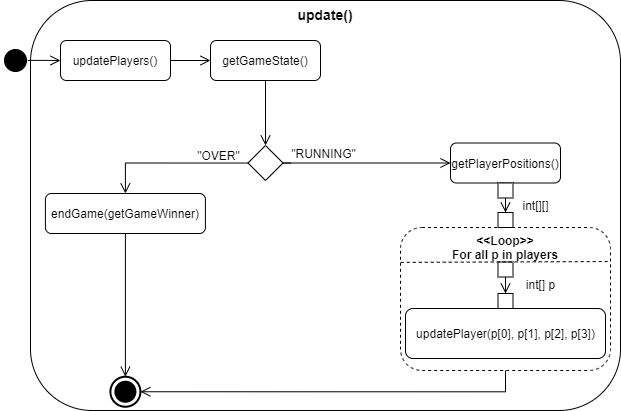
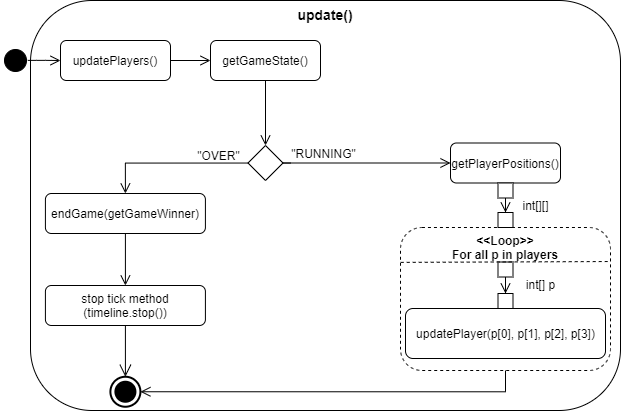
109 gamespeed als tickrate (#110)
* added gameSpeed and timeline in code, diagrams, doc

* actual doc changes

* small correction AD_init

Changed region(s): [[0.1224, 0.6715, 0.2754, 0.7883]]

diff --git a/src/test/java/de/hawh/beta3/application/game/model/gamelogic/GameLogicTest.java b/src/test/java/de/hawh/beta3/application/game/model/gamelogic/GameLogicTest.java
@@ -16,7 +16,7 @@ class GameLogicTest {
     @BeforeEach
     void setUp() {
         gameLogic = new GameLogic();
-        gameLogic.init(4, 40, 3);
+        gameLogic.init(4, 40);
         players = gameLogic.getPlayerPositions();
     }
 
@@ -30,7 +30,7 @@ class GameLogicTest {
         assertEquals(startingPos.stream().distinct().count(), startingPos.size());
 
         //6 players
-        gameLogic.init(6, 40, 3);
+        gameLogic.init(6, 40);
         players = gameLogic.getPlayerPositions();
 
         startingPos = new ArrayList<>();
@@ -49,7 +49,7 @@ class GameLogicTest {
         assertEquals(startingPos.get(3), new Position(19, 39));
 
         //3 players size 53
-        gameLogic.init(4, 53, 3);
+        gameLogic.init(4, 53);
         players = gameLogic.getPlayerPositions();
         startingPos = new ArrayList<>();
         for (int[] p : players) startingPos.add(new Position(p[1], p[2]));
@@ -58,7 +58,7 @@ class GameLogicTest {
         assertEquals(startingPos.get(2), new Position(26, 0));
 
         //6 players size 40
-        gameLogic.init(6, 40, 3);
+        gameLogic.init(6, 40);
         players = gameLogic.getPlayerPositions();
         startingPos = new ArrayList<>();
         for (int[] p : players) startingPos.add(new Position(p[1], p[2]));
@@ -154,7 +154,7 @@ class GameLogicTest {
          * x x 2 x 1
          * x x x 1 1
          */
-        gameLogic.init(3, 5, 3);
+        gameLogic.init(3, 5);
         players = gameLogic.getPlayerPositions();
         gameLogic.changePlayerDirection(0, "left");
         gameLogic.changePlayerDirection(1, "left");
@@ -178,7 +178,7 @@ class GameLogicTest {
          * x x 3 3 x
          * x x 3 x x
          */
-        gameLogic.init(4, 5, 3);
+        gameLogic.init(4, 5);
         players = gameLogic.getPlayerPositions();
         gameLogic.updatePlayers();  //tick 1
         gameLogic.changePlayerDirection(2, "right");
@@ -196,7 +196,7 @@ class GameLogicTest {
     @Test
     void updatePlayersPlayerWinCollision() {
         //one player steers right twice and drives into wall --> other player wins
-        gameLogic.init(2, 40, 3);
+        gameLogic.init(2, 40);
         players = gameLogic.getPlayerPositions();
         gameLogic.changePlayerDirection(0, "right");
         gameLogic.updatePlayers();
@@ -211,7 +211,7 @@ class GameLogicTest {
     @Test
     void updatePlayersPlayerWinTwoCollisions() {
         //players 0 and 1 drive into one another --> player 2 wins
-        gameLogic.init(3, 5, 3);
+        gameLogic.init(3, 5);
         players = gameLogic.getPlayerPositions();
         gameLogic.updatePlayers();  //tick 1
         gameLogic.changePlayerDirection(2, "left"); //player 2 is clever
@@ -227,7 +227,7 @@ class GameLogicTest {
     @Test
     void updatePlayersTie() {
         //every player drives into one another
-        gameLogic.init(4, 5, 3);
+        gameLogic.init(4, 5);
         gameLogic.updatePlayers();  //tick 1
         gameLogic.updatePlayers();  //tick 2 --> collision in the middle so big its a Karambolage
         assertSame(gameLogic.getGameState(), "OVER");
@@ -243,7 +243,7 @@ class GameLogicTest {
          * x x x 3 3 x x
          * x x x 3 3 x x
          */
-        gameLogic.init(5, 7, 3);
+        gameLogic.init(5, 7);
         gameLogic.changePlayerDirection(0, "left");
         gameLogic.changePlayerDirection(4, "left");
         gameLogic.updatePlayers();  //tick 1

diff --git a/src/main/java/de/hawh/beta3/application/game/model/gamemanager/GameManager.java b/src/main/java/de/hawh/beta3/application/game/model/gamemanager/GameManager.java
@@ -8,9 +8,10 @@ import de.hawh.beta3.application.game.view.IModelView;
 import java.util.Timer;
 import java.util.TimerTask;
 
-//import javafx.animation.Animation;
-//import javafx.animation.KeyFrame;
-//import javafx.animation.Timeline;
+import javafx.animation.Animation;
+import javafx.animation.KeyFrame;
+import javafx.animation.Timeline;
+import javafx.util.Duration;
 
 public class GameManager implements IModel {
     private static GameManager gameInstance = new GameManager();
@@ -20,7 +21,7 @@ public class GameManager implements IModel {
     private int fullPlayerCount;
     private int numPlayers;
     private Timer timer = new Timer();
-    //private Timeline timeline
+    private Timeline timeline;
 
     private GameManager() {
         gameLogic = new GameLogic();
@@ -83,9 +84,12 @@ public class GameManager implements IModel {
      */
     @Override
     public void startGame(int size, int gameSpeed) {
-        gameLogic.init(numPlayers, size, gameSpeed);
-        //timeline = new Timeline(new KeyFrame(Duration.millis(200), e -> update()));
-        //timeline.setCycleCount(Animation.INDEFINITE);
+        gameLogic.init(numPlayers, size);
+        for (int[] p : gameLogic.getPlayerPositions()) {    //send starting positions to view
+            //modelView.updatePlayer(p[0], p[1], p[2], p[3]);
+        }
+        timeline = new Timeline(new KeyFrame(Duration.millis(gameSpeed), e -> update()));
+        timeline.setCycleCount(Animation.INDEFINITE);
     }
 
     /**
@@ -111,6 +115,7 @@ public class GameManager implements IModel {
             }
         } else if (gameLogic.getGameState().equals("OVER")) {
             //modelController.endGame(gameLogic.getGameWinner());
+            timeline.stop();
         }
     }
 }

diff --git a/src/main/java/de/hawh/beta3/application/game/model/gamelogic/GameLogic.java b/src/main/java/de/hawh/beta3/application/game/model/gamelogic/GameLogic.java
@@ -16,13 +16,11 @@ public class GameLogic implements IGameLogic {
      *
      * @param numPlayers number of Players (2-6)
      * @param size       size of game field
-     * @param gameSpeed  speed of game
      */
     @Override
-    public void init(int numPlayers, int size, int gameSpeed) {
+    public void init(int numPlayers, int size) {
         this.size = size;
         players = new ArrayList<>();
-        //this.gameSpeed = gameSpeed;
         Position[] startingPos = getStartingPositions(numPlayers);
         Direction[] startingDir = getStartingDirections(numPlayers);
 
@@ -30,7 +28,6 @@ public class GameLogic implements IGameLogic {
             Player p = new Player(i, startingPos[i], startingDir[i]);
             p.addFrontToTrail();
             players.add(p);
-            //IModelView.updatePlayer(i, p.getFront().getX(), p.getFront().getY());
         }
 
         gameState = GameState.RUNNING;

diff --git a/src/main/java/de/hawh/beta3/application/game/model/gamelogic/IGameLogic.java b/src/main/java/de/hawh/beta3/application/game/model/gamelogic/IGameLogic.java
@@ -9,9 +9,8 @@ public interface IGameLogic {
      *
      * @param numPlayers number of Players (2-6)
      * @param size       size of game field
-     * @param gameSpeed  speed of game
      */
-    void init(int numPlayers, int size, int gameSpeed);
+    void init(int numPlayers, int size);
 
     /**
      * Method for changing direction of a player with <code>id</code>

diff --git a/Doku/Dokumentation_Tronspiel.md b/Doku/Dokumentation_Tronspiel.md
@@ -154,7 +154,7 @@ Die Anforderungen wurden mit Hilfe der Storyboard-Methode aufgenommen. Dafür wu
 |UC1 | Controller |int[] loadConfigParams() | Eine gültige Spieleranzahl wurd im Model gespeichert.  | Es wurde eine Liste mit Spielparametern erzeugt. |Die Methode liefert die Parameter aus der Config-Datei in einem int-Array der Länge 4. <br> **Index 0:** Die maximale Wartezeit <br> **Index 1:** Die Tastenbelegung (0: Steuerung über die Pfeiltasten rechts/links; 1: Steuerung über die Tasten 'A'/'D') <br> **Index 2:** Die Geschwindigkeit<br> **Index 3:** Die Spielfeldgröße | Wenn ein Parameter nicht im gültigen Wertebereich liegt oder nicht geladen werden konnte, wird der entsprechende Default-Wert gesetzt: <br> **Default maximale Wartezeit:** 120 Sekunden<br> **Default Geschwindkeit:** 100 (Einheit: Bewegungen/Sekunde) <br> **Default Spielfeldgröße:** Geschwindigkeit * 5 <br><br> Anschließend wird die Methode informUser("Ein oder mehr Parameter aus der Konfigurationsdatei waren ungültig oder konnten nicht geladen werden. Die betroffenen Parameter wurde auf Default-Werte gesetzt.") aufgerufen |
 |UC1| Model | ``void join(int)`` | Ein Spieler möchte dem Spiel durch Drücken auf Start beitreten oder ist der erste und erstellt damit ein Spiel | Der Spieler wurde im Spiel registriert. Wenn das Spiel voll ist, wird es gestartet | Nach Klick auf Start wird diese Methode mit der Anzahl der Spieler aus dem Feld des Startbildschirms aufgerufen. Ist noch kein `fullPlayerCount` gesetzt, ist die übergebene Anzahl die Lobbygröße. Die Anzahl der Spieler in der Lobby werden hochgezählt. Dann wird geschaut, ob die Lobby voll ist und dann entweder das Spiel gestartet oder die Anzahl der wartenden Spieler in der View aktualisiert und der Warte-Timer zurückgesetzt | 1. Ein Spieler tritt mit seiner eingetragenen Anzahl an Spielern bei, die Lobby hat aber schon eine gesetzte Größe. Dann wird der Spieler darüber informiert (`informUser()`) |
 |UC2a+b | Model | ``void cancelWait()`` | Der Cancel-Button wurde gedrückt oder die maximale Wartezeit ist abgelaufen | Das Spiel wurde abgebrochen und alles zurückgesetzt | fullPlayerCount und numPlayers werden auf 0 gesetzt, der Timer abgebrochen, der User informiert und die Spielinstanz im Controller gelöscht | |
-|UC3| Model |``void startGame(int, int)``| Es sind genug Spieler beigetreten|Das Spiel wurde initialisiert und alle Spieler befinden sich auf ihrer Startposition und sehen den Spielbildschirm | startGame() wird mit Anzahl Reihen (Spalten entfallen, da das Spielfeld quadratisch ist) und Geschwindigkeit aufgerufen. Das Spielfeld und die Spieler werden initialisert und die Spieler auf ihre Startpositionen gesetzt. Die Informationen über die Positionen werden an die View zur Darstellung geschickt||
+|UC3| Model |``void startGame(int, int)``| Es sind genug Spieler beigetreten|Das Spiel wurde initialisiert und alle Spieler befinden sich auf ihrer Startposition und sehen den Spielbildschirm | startGame() wird mit Anzahl Reihen (Spalten entfallen, da das Spielfeld quadratisch ist) und Spielgeschwindigkeit aufgerufen. Das Spielfeld und die Spieler werden initialisiert und die Spieler auf ihre Startpositionen gesetzt. Die Informationen über die Positionen werden an die View zur Darstellung geschickt||
 |UC1, UC2, UC5 | View | void informUser(String) | Ein Fehler ist aufgetreten | Dem Nutzer wird ein Text mit der entsprechenden Fehlerbeschreibung angezeigt. |Zeigt die übergebene Fehlerbeschreibung dem Nutzer an | |
 |UC1, UC2, UC6, UC8 | View |void showScreen(String) | Der Spielzustand wurde im Controller gewechselt. | Dem Nutzer wird einen anderen Bildschirm angezeigt. |Die Methode zeigt den Bildschirm an, der zum übergebenen Bildschirmzustand passt.  | Wenn zum übergebenen Zustandsparameter kein anzuzeigenden Bildschirm gehört, wird eine Exception mit einer Fehlerbeschreibung geworfen. |
 |UC2 | Controller | void handleWaitingButtonClick() | Der Nutzer befindet sich alleine in der Lobby und hat auf den Button "Cancel" geklickt.| Der Spieler wird  zum Startbildschirm zurückgeleitet. |Die Methode bricht den Wartevorgang ab. | |
@@ -342,7 +342,7 @@ Die Schnittstelle **IRemoteObject** bietet die Funktionalität zum Empfangen von
 | ``cancelWait()`` | Zum Abbrechen der Lobby durch Ablaufen der Wartezeit oder Drücken auf 'Cancel' |
 | ``startGame(int,int)`` | Lässt das Spiel mit den übergebenen Einstellungen (Spielfeldgröße und Spielgeschwindigkeit) starten|
 | ``changePlayerDirection(int,String)`` | Für Verarbeitung der Tasteneingaben für einen Spieler|
-| ``init(int,int,int)`` | Wird in `startGame()` aufgerufen und initialisert das Spiel |
+| ``init(int,int)`` | Wird in `startGame()` aufgerufen und initialisert das Spiel |
 | ``updatePlayers()`` | Aktualisiert die Position aller Spieler und bereitet tote Spieler auf ihre Entfernung vor |
 | ``getGameState()`` | Liefert den GameState für den Manager als String |
 | ``getGameWinner()`` | Liefert die id des Siegers oder -1 bei Unentschieden |
@@ -465,6 +465,9 @@ Die komplette Methodenliste ist bereits in der Blackbox-Sicht (#applicationstubb
 
 ## AD startGame
 ![Aktivitätsdiagramm_startGame](images/AD_startGame.png)
+
+## AD init
+![Aktivitätsdiagramm_init](images/AD_init.png)
 
 ## AD update
 ![Aktivitätsdiagramm_update](images/AD_update.png)
